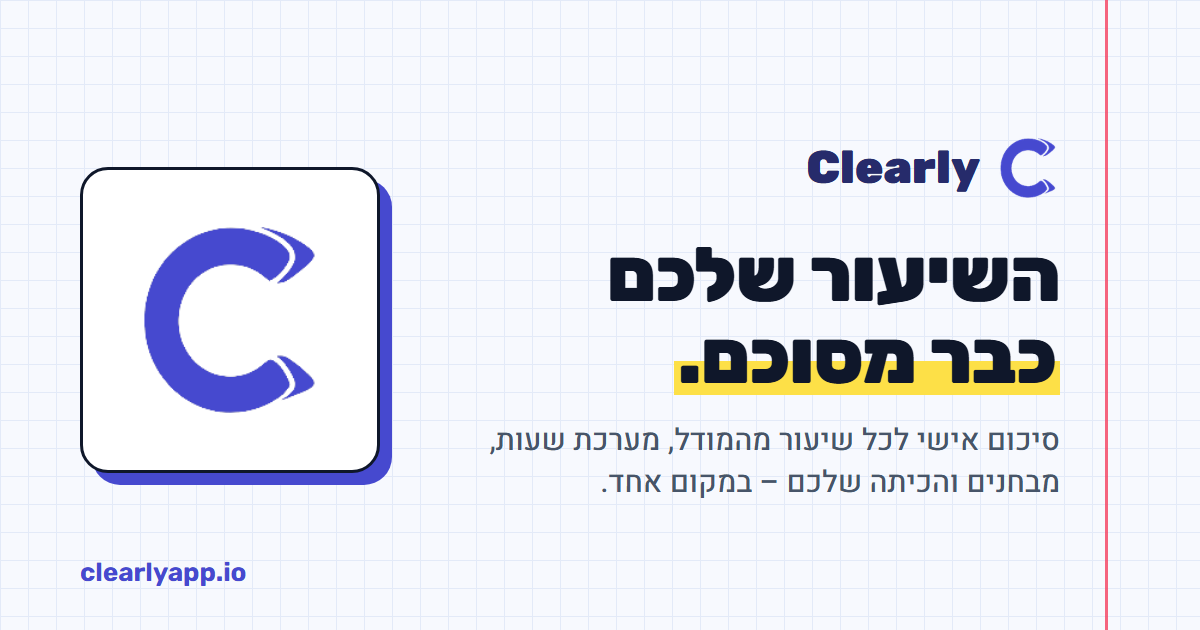
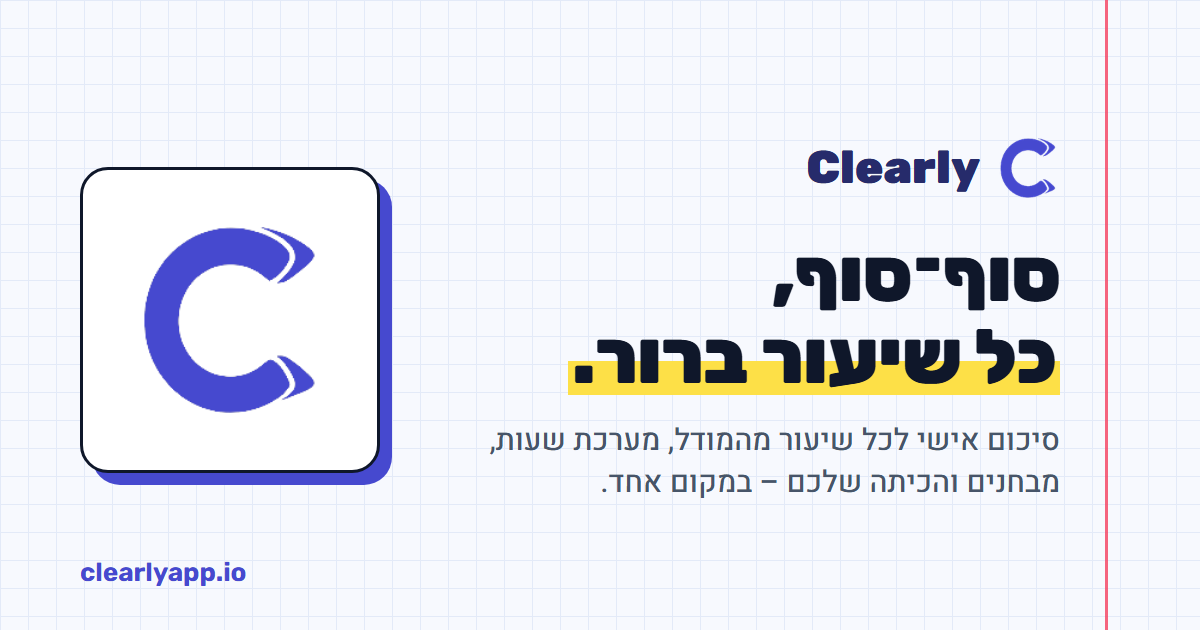
Set the new slogan "סוף־סוף, כל שיעור ברור" as the Google title, welcome hero and share image (v43)

Changed region(s): [[0.4625, 0.3921, 0.8942, 0.6333]]

diff --git a/welcome/index.html b/welcome/index.html
@@ -3,7 +3,7 @@
 <head>
 <meta charset="utf-8">
 <meta name="viewport" content="width=device-width, initial-scale=1, viewport-fit=cover">
-<title>Clearly · סיכומים, מחברות ומערכת שעות לסטודנטים</title>
+<title>Clearly · סוף־סוף, כל שיעור ברור</title>
 <link rel="icon" href="../favicon.ico" sizes="any">
 <link rel="icon" href="../icons/favicon-32.png" type="image/png" sizes="32x32">
 <link rel="apple-touch-icon" href="../icons/apple-touch-icon.png">
@@ -15,14 +15,14 @@
 <meta property="og:site_name" content="Clearly">
 <meta property="og:locale" content="he_IL">
 <meta property="og:url" content="https://clearlyapp.io/welcome/">
-<meta property="og:title" content="Clearly · השיעור שלכם כבר מסוכם">
+<meta property="og:title" content="Clearly · סוף־סוף, כל שיעור ברור">
 <meta property="og:description" content="Clearly מחבר את המודל ומסכם לבד כל מצגת ושיעור לסיכום אישי, עם מבחן קצר, מערכת שעות, לוח מבחנים והגשות – לסטודנטים באוניברסיטאות בישראל. חינם בתקופת הבדיקות.">
 <meta property="og:image" content="https://clearlyapp.io/icons/og-image.png">
 <meta property="og:image:width" content="1200">
 <meta property="og:image:height" content="630">
-<meta property="og:image:alt" content="Clearly – השיעור שלכם כבר מסוכם">
+<meta property="og:image:alt" content="Clearly – סוף־סוף, כל שיעור ברור">
 <meta name="twitter:card" content="summary_large_image">
-<meta name="twitter:title" content="Clearly · השיעור שלכם כבר מסוכם">
+<meta name="twitter:title" content="Clearly · סוף־סוף, כל שיעור ברור">
 <meta name="twitter:description" content="Clearly מחבר את המודל ומסכם לבד כל מצגת ושיעור לסיכום אישי, עם מבחן קצר, מערכת שעות, לוח מבחנים והגשות – לסטודנטים באוניברסיטאות בישראל. חינם בתקופת הבדיקות.">
 <meta name="twitter:image" content="https://clearlyapp.io/icons/og-image.png">
 <script type="application/ld+json">
@@ -337,7 +337,7 @@ footer .wrap { display: flex; justify-content: space-between; gap: 16px; flex-wr
     <div class="wrap">
       <div>
         <p class="eyebrow">לסטודנטים באוניברסיטאות שעובדות עם Moodle</p>
-        <h1 style="margin-top:14px">השיעור שלכם<br><span class="mark">כבר מסוכם.</span></h1>
+        <h1 style="margin-top:14px">סוף־סוף,<br><span class="mark">כל שיעור ברור.</span></h1>
         <p class="lead">מחברים את המודל פעם אחת, ואנחנו עושים את כל השאר: סיכום אישי לכל שיעור, מבחנים, והכיתה שלכם במקום אחד.</p>
         <div class="ctas">
           <a class="btn" href="https://clearlyapp.io/?app=1">לפתוח את Clearly</a>

diff --git a/index.html b/index.html
@@ -9,7 +9,7 @@
   <meta property="og:type" content="website">
   <meta property="og:site_name" content="Clearly">
   <meta property="og:locale" content="he_IL">
-  <meta property="og:title" content="Clearly · השיעור שלכם כבר מסוכם">
+  <meta property="og:title" content="Clearly · סוף־סוף, כל שיעור ברור">
   <meta property="og:description" content="Clearly מחבר את המודל ומסכם לבד כל מצגת ושיעור לסיכום אישי, עם מבחן קצר, מערכת שעות, לוח מבחנים והגשות – לסטודנטים באוניברסיטאות בישראל. חינם בתקופת הבדיקות.">
   <meta property="og:image" content="https://clearlyapp.io/icons/og-image.png">
   <meta name="twitter:card" content="summary_large_image">

diff --git a/sw.js b/sw.js
@@ -1,5 +1,5 @@
 // Service worker: שומר את קבצי האפליקציה במכשיר, כדי שתיפתח מהר וגם בלי אינטרנט
-const CACHE = "sikumon-v42";
+const CACHE = "sikumon-v43";
 const FILES = ["./", "index.html", "styles.css", "app.js", "recorder.js", "demo-data.js", "notes.js", "study.js", "extras.js", "practice.js", "planner.js", "ai.js", "tools.js", "social.js", "settings.js", "assistant.js", "assignments.js", "api.js", "md.js", "manifest.webmanifest", "favicon.ico", "icons/favicon-32.png", "icons/logo-mark.png", "icons/icon-192.png", "icons/icon-512.png", "icons/apple-touch-icon.png"];
 
 self.addEventListener("install", (e) => {

diff --git a/app.js b/app.js
@@ -1718,7 +1718,7 @@ async function autoSync() {
 setTimeout(autoSync, 1500);
 document.addEventListener("visibilitychange", () => { if (document.visibilityState === "visible") autoSync(); });
 
-const APP_VERSION = "42";
+const APP_VERSION = "43";
 if ("serviceWorker" in navigator && location.protocol === "https:") {
   navigator.serviceWorker.register("sw.js", { updateViaCache: "none" }).then((reg) => {
     reg.update();
